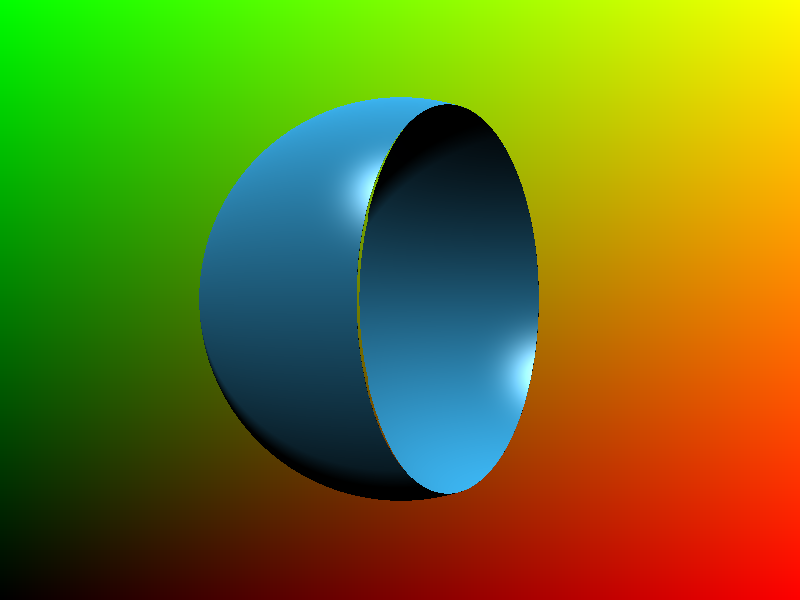
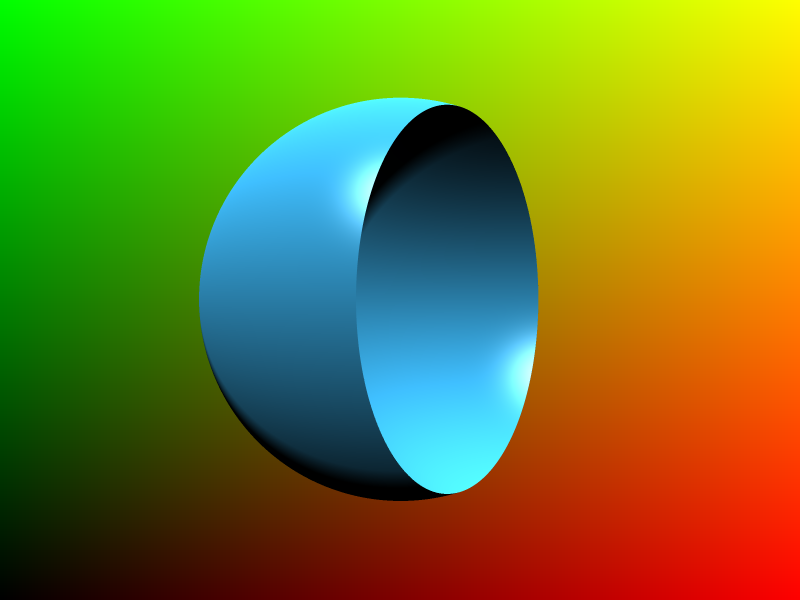
Updated Readme

Changed region(s): [[0.25, 0.15, 0.6875, 0.84]]

diff --git a/forgedthoughts/src/ft.rs b/forgedthoughts/src/ft.rs
@@ -137,7 +137,7 @@ impl FT {
                             let mut closest : Option<usize> = None;
 
                             // Raymarching loop
-                            for _i in 0..120 {
+                            for _i in 0..10000 {
 
                                 let p = ro + rd.mult_f(&t);
 
@@ -150,7 +150,7 @@ impl FT {
                                     }
                                 }
 
-                                if d.abs() < 0.001 {
+                                if d.abs() < 0.0001 {
                                     hit = closest;
                                     break;
                                 } else

diff --git a/Readme.md b/Readme.md
@@ -1,1 +1,32 @@
-ForgedThoughts will be a modeling and rendering programming language utilizing SDFs.
+ForgedThoughts is under early development.
+
+ForgedThoughts is a modeling and rendering programming language utilizing SDFs.
+
+# Example
+
+```rust
+fn background(uv) {
+    return F3(uv.x, uv.y, 0.0);
+}
+
+camera.origin.x = 2.0;
+
+settings.background = F3(1.0, 1.0, 1.0);
+settings.antialias = 3;
+
+let light = PointLight();
+light.position = F3(3.0, 3.0, 5.0);
+light.intensity = 1.0;
+
+let sphere1 = Sphere();
+sphere1.radius = 1.2;
+sphere1.material.rgb = F3(0.2, 0.6, 0.8);
+
+let sphere2 = Sphere();
+sphere2.position.x = 1.0;
+sphere2.radius = 1.2;
+
+sphere1 -= sphere2;
+```
+
+![image](image.png)
